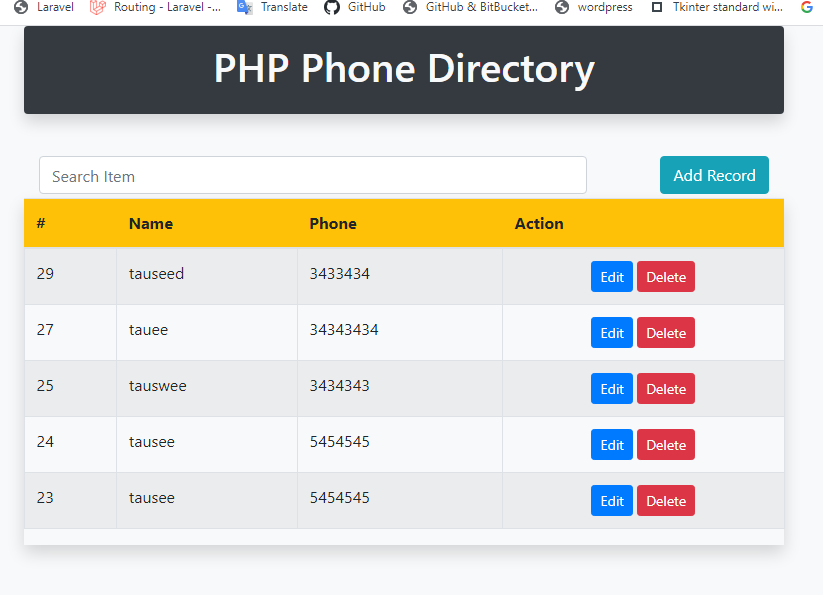
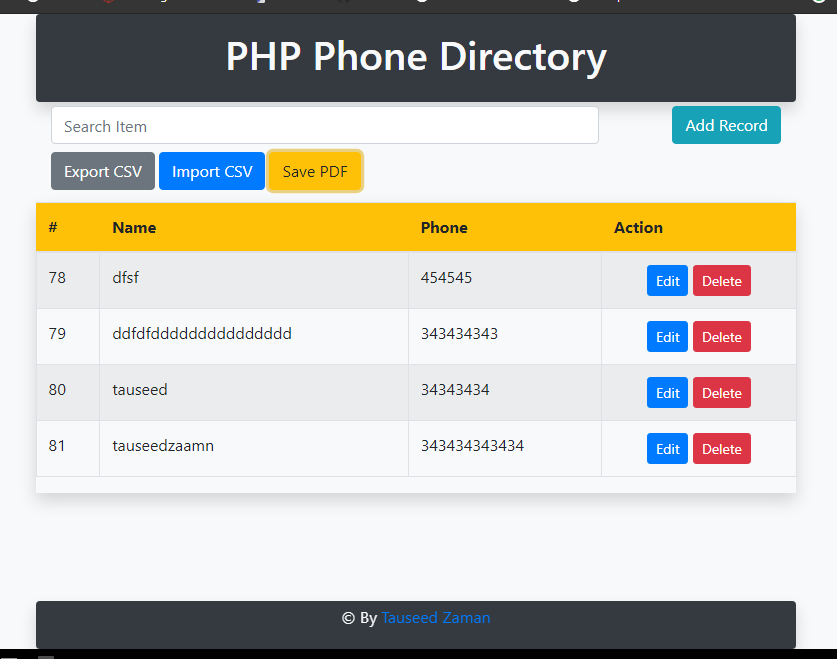
save to pdf done!

diff --git a/save_to_pdf.php b/save_to_pdf.php
@@ -3,23 +3,20 @@
 include_once("config.php");
 require 'vendor/autoload.php';
 
-// reference the Dompdf namespace
 use Dompdf\Dompdf;
-
-// instantiate and use the dompdf class
 $dompdf = new Dompdf();
 
 
 
 $result = mysqli_query($conn, "SELECT * FROM  phonesdirectory ");
         $output = '
-			<h1>Phone Directory Data</h1>
-			<table>
-					<thead>	
-						<th><h2>#</h2></th>
-						<th><h2>Name</h2></th>
-						<th><h2>Phone</h2></th>
-					</thead>
+			<h1 style="text-align: center; padding: 10px;color: cyan;background:black">Phone Directory Data</h1>
+			<table style="width: 100%;text-align: center;table-layout: all;text-align-last: center;">
+					<tr style=" color: yellow;background:green">	
+						<td><h2>#</h2></td>
+						<td><h2>Name</h2></td>
+						<td><h2>Phone</h2></td>
+					</tr>
 					<tbody>';
         
         while ($row = mysqli_fetch_array($result)) {
@@ -27,24 +24,20 @@ $result = mysqli_query($conn, "SELECT * FROM  phonesdirectory ");
                         <td>" . $row['id'] . "</td>
                         <td>" . $row["name"] . "</td>
                         <td>" . $row['phone'] . "</td>
+
                         </tr>";
         }
 
         $output .='</tbody>
-				</table>';
+				</table> <br /><br /><br /><br /><br /><br /><br /><p style="text-align: center; padding: 10px;color: cyan;background:black;text-align: center; margin-top:10px">© Copyright By <a href="https://github.com/tauseedzaman"> Tauseed zaman :)</a></p>';
 
-// echo $output;
+
 $dompdf->loadHtml($output);
 
-// (Optional) Setup the paper size and orientation
 $dompdf->setPaper('A4', 'landscape');
 
-// Render the HTML as PDF
 $dompdf->render();
 
-// Output the generated PDF to Browser
 $dompdf->stream();
-
-echo 'string';
 
 	 ?>

diff --git a/index.php b/index.php
@@ -13,7 +13,7 @@ include_once 'config.php';
 
 <body class="bg-light">
 	<div class="container">
-		<div class="row">
+		<div class="row" >
 			<div class="col-md-8 mx-auto bg-dark rounded shadow py-3">
 				<h1 class="text-center text-light">PHP Phone Directory</h1>
 			</div>
@@ -56,7 +56,9 @@ include_once 'config.php';
 			</div>
 		</div>
 	</div>
-
+<table style="">
+    
+</table>
     <footer>
         <div class="container mt-auto fixed-bottom">
         <div class="row">

diff --git a/config.php b/config.php
@@ -12,9 +12,9 @@ $db = "testPHP";
 $conn = mysqli_connect($host, $username, $password) or die('connection error');
 
 // create database if not esits
-$query = "create database if not exists `chatapp`";
+// $query = "create database if not exists `chatapp`";
 
-mysqli_query($conn,$query) or die("con't create database");
+// mysqli_query($conn,$query) or die("con't create database");
 
 $query = "USE $db";
 

diff --git a/README.md b/README.md
@@ -1,3 +1,6 @@
 "# phone-directory" 
  ## ScreenShot <br />
  <img src="Screenshot.png" with="100" alt="screehshot">
+
+ <br>
+ <p>Leave a star if you like this idea</p>
